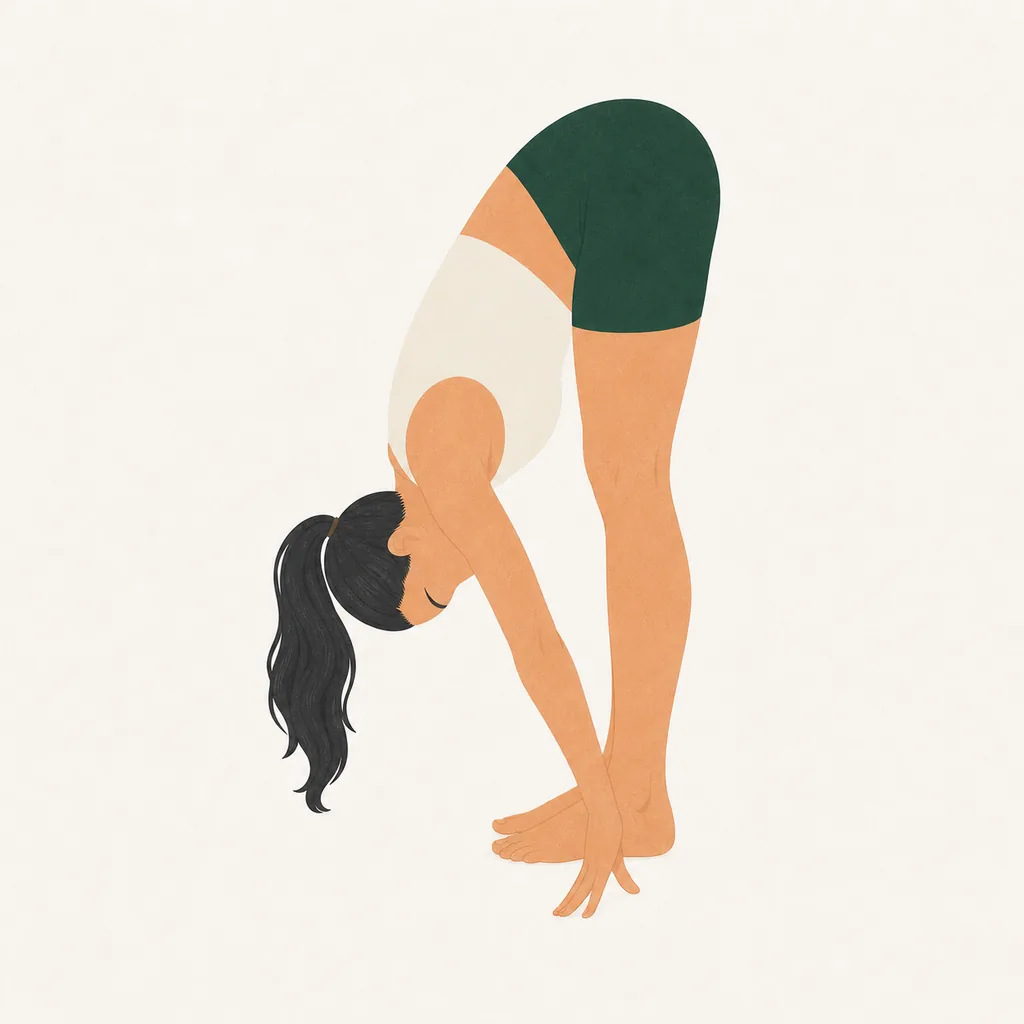
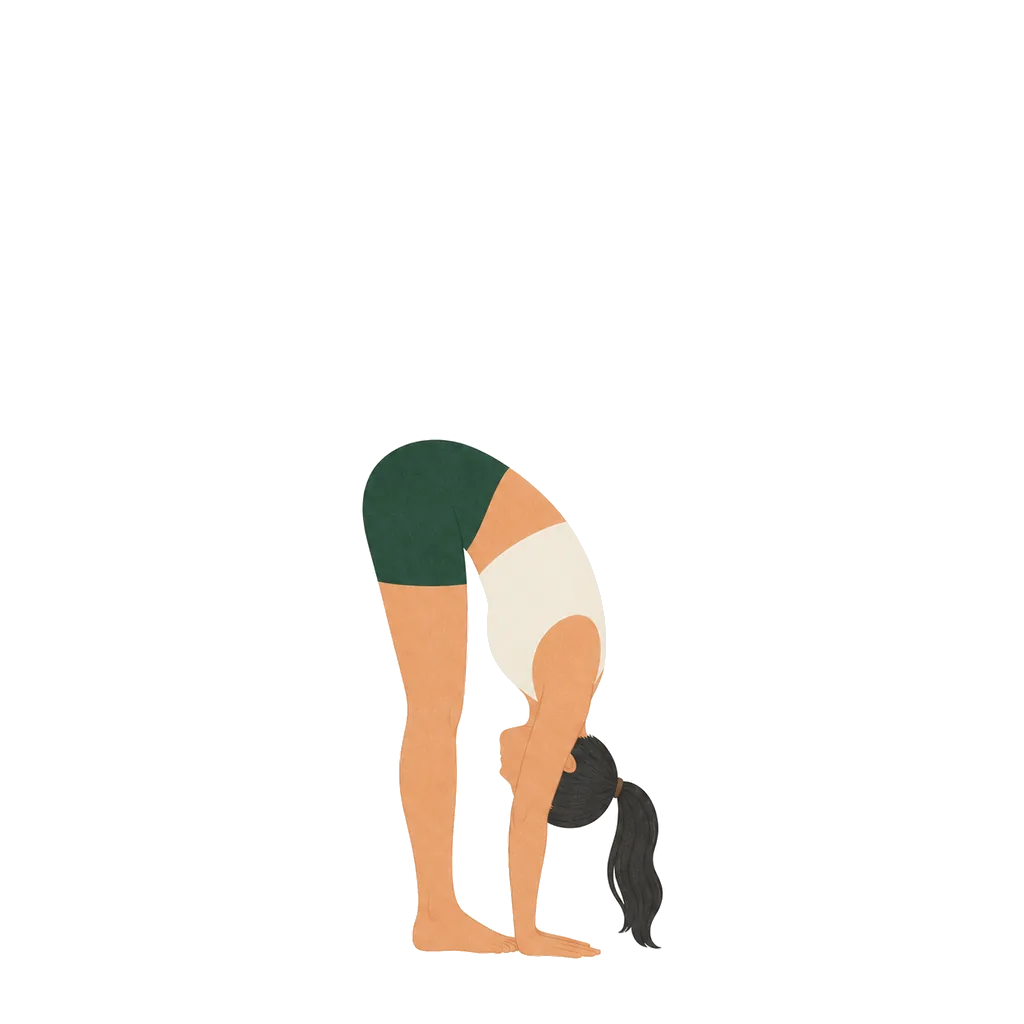
feat: align transparent sun salutation assets

Changed region(s): [[0.25, 0.0938, 0.7188, 0.9375]]

diff --git a/components/PosesTab.tsx b/components/PosesTab.tsx
@@ -102,7 +102,7 @@ export function PosesTab({ onDetailOpen, onDetailClose }: PosesTabProps) {
                 onClick={() => openPose(pose)}
                 className="group min-w-0 text-left active:scale-[0.98]"
               >
-                <div className="aspect-square w-full overflow-hidden rounded-xl bg-[#F9F7F2]">
+                <div className="aspect-square w-full overflow-hidden rounded-xl">
                   <img
                     src={pose.thumbnail}
                     alt={pose.name}
@@ -130,14 +130,14 @@ export function PosesTab({ onDetailOpen, onDetailClose }: PosesTabProps) {
             className="fixed inset-0 z-50 flex flex-col bg-white"
           >
             <div className="flex-1 overflow-y-auto bg-gradient-to-b from-[#faf8f5] to-white">
-              <div className="relative aspect-square w-full bg-[#F9F7F2]">
+              <div className="relative aspect-square w-full">
                 {!imagesLoaded[selectedPose.id] && (
                   <div className="absolute inset-0 animate-pulse bg-stone-100" />
                 )}
                 <img
                   src={selectedPose.image}
                   alt={selectedPose.name}
-                  className={`block h-full w-full object-cover ${imagesLoaded[selectedPose.id] ? '' : 'invisible'}`}
+                  className={`block h-full w-full object-contain ${imagesLoaded[selectedPose.id] ? '' : 'invisible'}`}
                   onLoad={() => setImagesLoaded(previous => ({ ...previous, [selectedPose.id]: true }))}
                   decoding="async"
                 />
